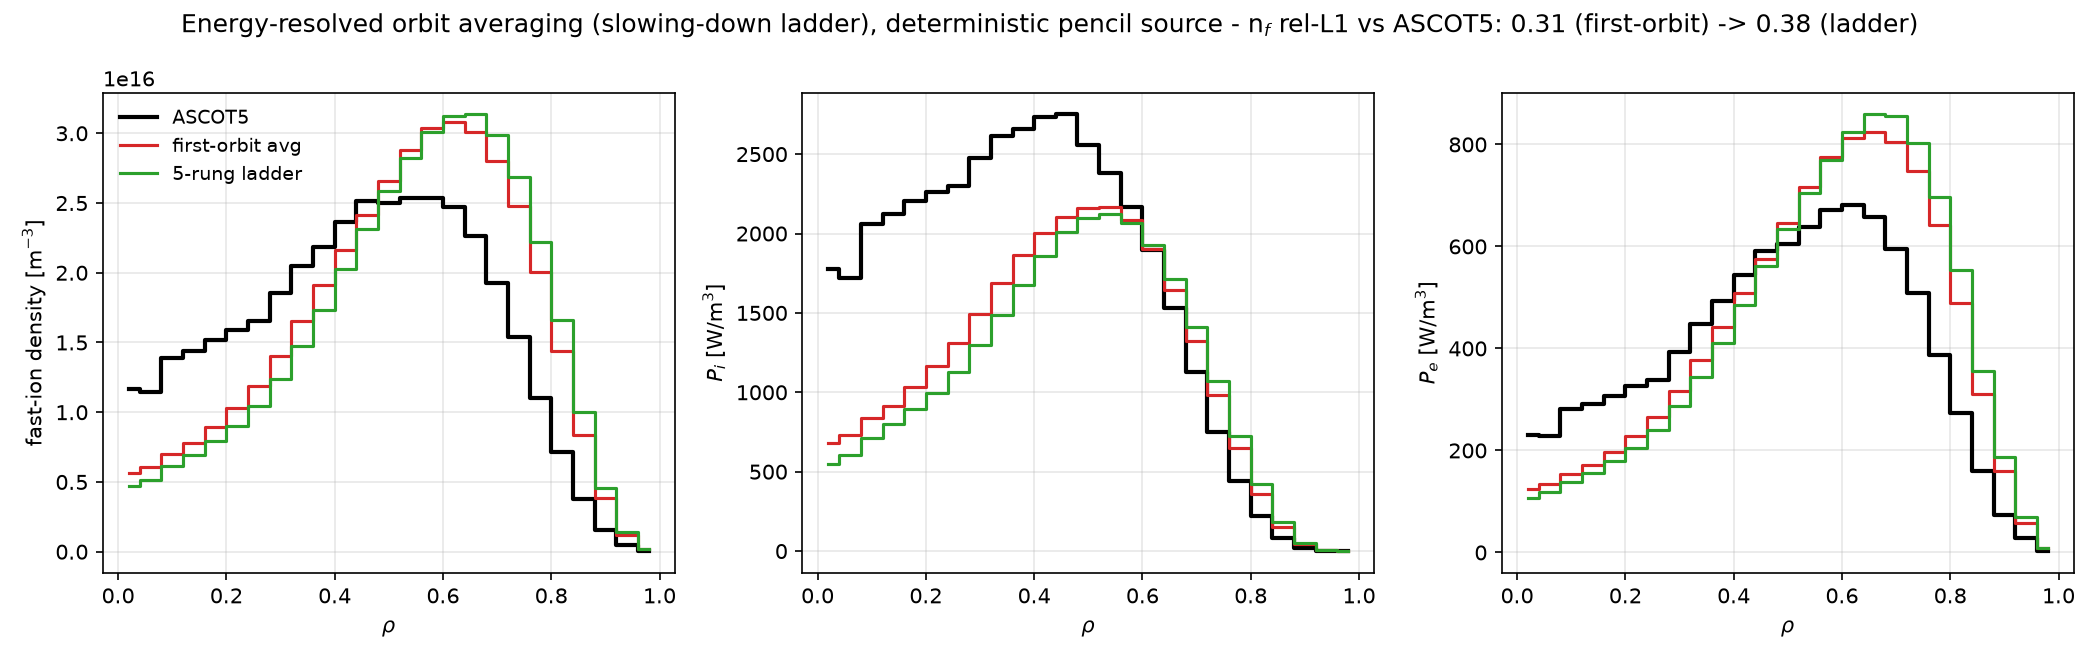
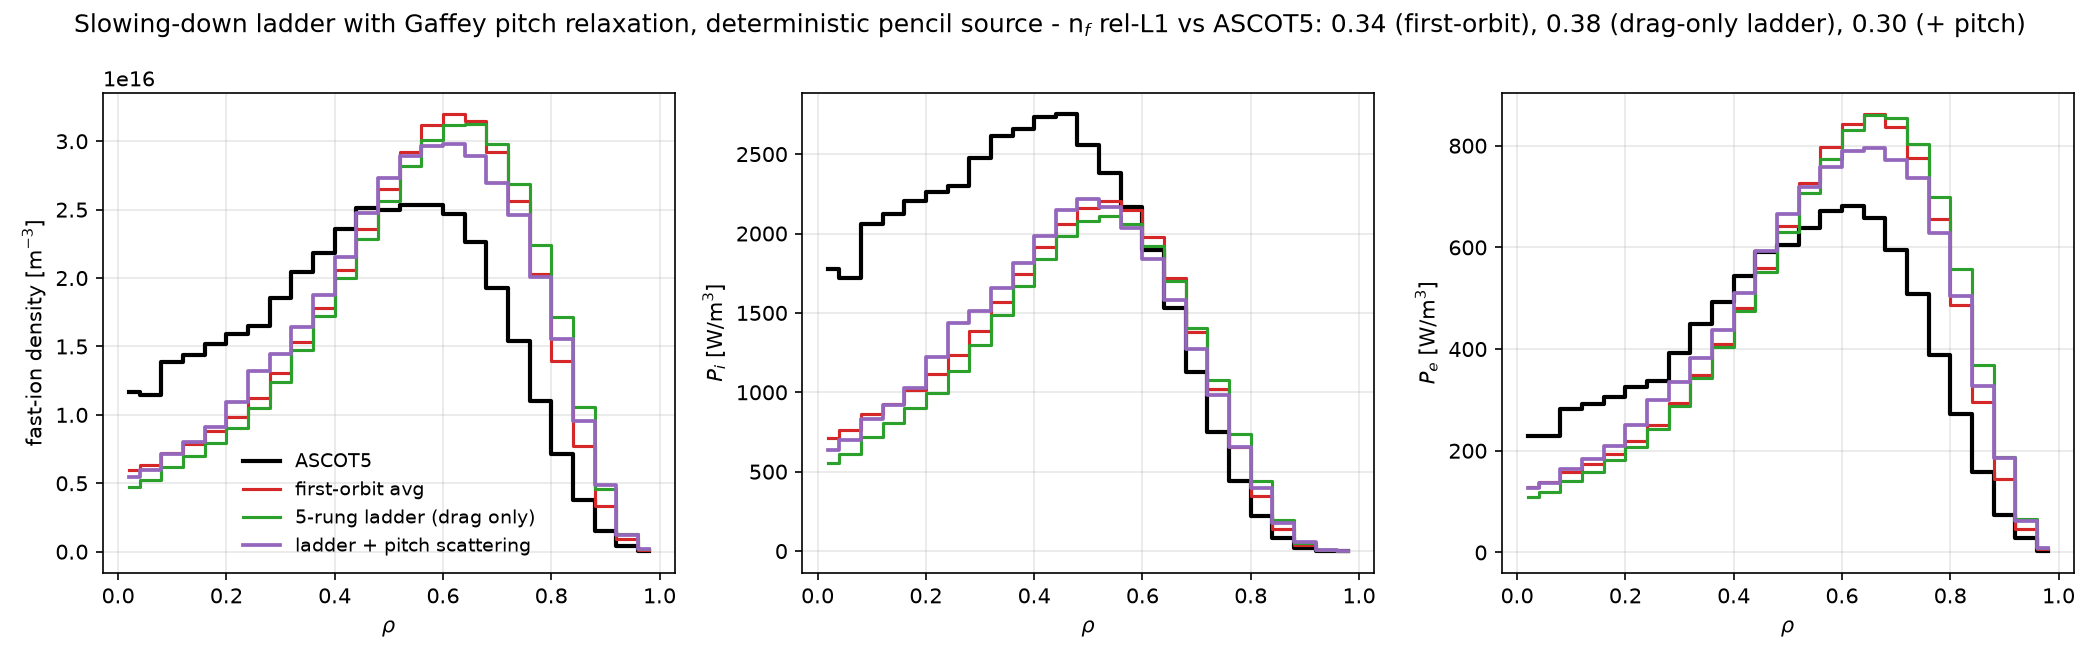
Add Gaffey pitch-angle relaxation to the slowing-down ladder
Legendre-moment decay <P_l>(v) = P_l(xi0) X^(l(l+1)beta/6) with
beta = Zeff/[Z] (Gaffey 1976, Cordey & Core 1974), represented by three
Gauss-Hermite pitch nodes per rung matching the exact mean and variance.
Restores the drag-only ladder's loss and improves on the first-orbit
average (density rel-L1 0.31, P_e 0.26 vs ASCOT5); power balance
unchanged at machine precision.

Claude-Session: https://claude.ai/code/session_01Kv1AQduco2xaPqVER3Quss

diff --git a/deposition_comparison/sd_ladder.py b/deposition_comparison/sd_ladder.py
@@ -41,7 +41,8 @@ from .slowing_down import (SlowingDownResult, _F, _G, _local_sd_quantities)
 
 def ladder_sd(R, z, vpar, mu, e_keV, rate, eq: Equilibrium, plasma,
               rho_edges, e_edges_keV, *, mass_amu, emin_keV=20.0,
-              n_rungs=5, rung_rep="mid", t_int=7.5e-4, n_steps=3000):
+              n_rungs=5, rung_rep="mid", pitch_scattering=False,
+              t_int=7.5e-4, n_steps=3000):
     """Slowing-down profiles with per-rung orbit averaging.
 
     Parameters mirror the deterministic chain's birth cells: guiding-center
@@ -86,17 +87,63 @@ def ladder_sd(R, z, vpar, mu, e_keV, rate, eq: Equilibrium, plasma,
     eE = e_edges_keV * 1e3 * E_CHARGE
     vE = jnp.sqrt(2.0 * eE / m_b)                     # (nE+1,)
 
-    # One orbit per (cell, rung) at the representative band speed.
+    # Representative band speed per rung.
     v_rep = va if rung_rep == "top" else 0.5 * (va + vb)   # (ncell, L)
-    vr = v_rep.reshape(-1)
-    Rf = jnp.repeat(R, L)
-    zf = jnp.repeat(z, L)
-    xif = jnp.repeat(xi, L)
-    Bf = jnp.repeat(B0mag, L)
-    frac, err = orbit_average_matrix(
+
+    # Pitch nodes per (cell, rung). Without pitch scattering: the birth
+    # pitch, weight 1. With it: Gaffey/Cordey collisional pitch relaxation.
+    # Legendre moments of the pitch distribution of ions slowing from v0
+    # decay as  <P_l>(v) = P_l(xi0) X^{l(l+1) beta / 6}  with
+    #   X(v) = (v^3/(v^3+v_c^3)) ((v0^3+v_c^3)/v0^3),
+    #   beta = Z_eff / [Z],  [Z] = sum_i (n_i Z_i^2/n_e)(m_b/m_i)
+    # (Gaffey 1976 J. Plasma Phys. 16 149; Cordey & Core 1974). beta = 1 for
+    # a like-species plasma. From <P_1> and <P_2> the exact mean and
+    # variance follow; three Gauss-Hermite nodes (mu, mu +- sqrt(3) sigma;
+    # weights 1/6, 2/3, 1/6) match both moments and sum to 1, so power
+    # balance is untouched. beta and v_c are evaluated at the birth-surface
+    # bin (the pitch history integrates over the ion's own trajectory; the
+    # birth surface is the consistent one-point choice).
+    if pitch_scattering:
+        from .physics import profiles as _profiles
+        idx_b = jnp.clip(jnp.searchsorted(rho_edges, jnp.sqrt(
+            (R - eq.R0) ** 2 + z**2) / eq.a, "right") - 1, 0, nbin - 1)
+        ne_b, _, ni_b = _profiles(plasma, centers[idx_b])
+        zi = jnp.asarray(plasma.znum, dtype=jnp.float64)
+        mi = jnp.asarray(plasma.anum, dtype=jnp.float64) * AMU_KG
+        zeff = jnp.sum(ni_b * zi**2, axis=-1) / jnp.sum(ni_b * zi, axis=-1)
+        zbar = jnp.sum(ni_b * zi**2 * (m_b / mi), axis=-1) / ne_b
+        beta = zeff / zbar                                  # (ncell,)
+
+        vc_b = _local_sd_quantities(plasma, centers, m_b, 1.0)[1][idx_b]
+        X = ((v_rep**3 / (v_rep**3 + vc_b[:, None] ** 3))
+             * ((v0**3 + vc_b**3) / v0**3)[:, None])        # (ncell, L)
+        mean = xi[:, None] * X ** (beta[:, None] / 3.0)
+        p2_0 = 0.5 * (3.0 * xi**2 - 1.0)
+        p2 = p2_0[:, None] * X ** beta[:, None]
+        xi2 = (1.0 + 2.0 * p2) / 3.0
+        sig = jnp.sqrt(jnp.clip(xi2 - mean**2, 0.0))
+        nodes = jnp.stack([mean - jnp.sqrt(3.0) * sig, mean,
+                           mean + jnp.sqrt(3.0) * sig], axis=-1)
+        nodes = jnp.clip(nodes, -0.999, 0.999)              # (ncell, L, 3)
+        node_w = jnp.array([1.0 / 6.0, 2.0 / 3.0, 1.0 / 6.0])
+    else:
+        nodes = xi[:, None, None] * jnp.ones((1, L, 1))     # (ncell, L, 1)
+        node_w = jnp.array([1.0])
+    nnode = nodes.shape[-1]
+
+    # One orbit per (cell, rung, pitch node); kernels averaged over nodes.
+    vr = jnp.broadcast_to(v_rep[:, :, None],
+                          (R.shape[0], L, nnode)).reshape(-1)
+    xif = nodes.reshape(-1)
+    Rf = jnp.repeat(R, L * nnode)
+    zf = jnp.repeat(z, L * nnode)
+    Bf = jnp.repeat(B0mag, L * nnode)
+    frac_n, err = orbit_average_matrix(
         eq, rho_edges, Rf, zf, xif * vr,
         m_b * vr**2 * (1.0 - xif**2) / (2.0 * Bf),
-        mass_amu=mass_amu, t_int=t_int, n_steps=n_steps)   # (ncell*L, nbin)
+        mass_amu=mass_amu, t_int=t_int, n_steps=n_steps)
+    frac = jnp.einsum("n,clnb->clb", node_w,
+                      frac_n.reshape(-1, L, nnode, nbin)).reshape(-1, nbin)
 
     # Per destination bin b: evaluate the exact band contents with that
     # bin's (tau_se, v_c, E_c), weight by the orbit-kernel column frac[:, b],
@@ -166,10 +213,10 @@ if __name__ == "__main__":
     # --- validation 1: n_rungs=1 with rep="top" == plain first-orbit avg
     lad1, _ = ladder_sd(R, z, vpar, mu, e_keV, rate, eq, plasma, rho_edges,
                         e_edges, mass_amu=mamu, n_rungs=1, rung_rep="top",
-                        t_int=5.0e-4, n_steps=2000)
+                        t_int=2.5e-4, n_steps=1000)
     frac0, _ = orbit_average_matrix(eq, rho_edges, R, z, vpar, mu,
-                                    mass_amu=mamu, t_int=5.0e-4,
-                                    n_steps=2000)
+                                    mass_amu=mamu, t_int=2.5e-4,
+                                    n_steps=1000)
     oa0 = orbit_averaged_sd(frac0, e_keV, rate, eq, plasma, rho_edges,
                             e_edges, mass_amu=mamu)
     d1 = rel_l1(np.asarray(lad1.density), np.asarray(oa0.density))
@@ -178,24 +225,40 @@ if __name__ == "__main__":
     assert d1 < 1e-10
 
     # --- validation 2: exact power balance, any rung count
-    for L in (1, 3, 5):
+    for L in (1, 5):
         lad, _ = ladder_sd(R, z, vpar, mu, e_keV, rate, eq, plasma,
                            rho_edges, e_edges, mass_amu=mamu, n_rungs=L,
-                           t_int=2.0e-4, n_steps=500)
+                           t_int=1.0e-4, n_steps=200)
         dep = float(jnp.sum((lad.pe + lad.pi_) * vols))
         exp = float(jnp.sum(rate * jnp.clip(e_keV - 20.0, 0.0) * 1e3
                             * E_CHARGE))
         print(f"power balance, {L} rungs: rel {abs(dep/exp-1):.2e}")
         assert abs(dep / exp - 1.0) < 1e-10
 
-    # --- the ladder run
+    # --- the ladder runs (drag-only, and with Gaffey pitch scattering)
     t0 = time.perf_counter()
     lad, err = ladder_sd(R, z, vpar, mu, e_keV, rate, eq, plasma, rho_edges,
-                         e_edges, mass_amu=mamu, n_rungs=5)
+                         e_edges, mass_amu=mamu, n_rungs=5,
+                         t_int=5.0e-4, n_steps=2000)
     jax.block_until_ready(lad.density)
     t_lad = time.perf_counter() - t0
     print(f"\n5-rung ladder: {t_lad:.1f} s, orbit energy cons. max "
           f"{float(err.max()):.1e}")
+
+    t0 = time.perf_counter()
+    ladp, errp = ladder_sd(R, z, vpar, mu, e_keV, rate, eq, plasma,
+                           rho_edges, e_edges, mass_amu=mamu, n_rungs=5,
+                           pitch_scattering=True, t_int=5.0e-4,
+                           n_steps=2000)
+    jax.block_until_ready(ladp.density)
+    t_ladp = time.perf_counter() - t0
+    dep = float(jnp.sum((ladp.pe + ladp.pi_) * vols))
+    exp = float(jnp.sum(rate * jnp.clip(e_keV - 20.0, 0.0) * 1e3
+                        * E_CHARGE))
+    print(f"5-rung ladder + pitch scattering (3 nodes/rung): {t_ladp:.1f} s,"
+          f" orbit energy cons. max {float(errp.max()):.1e}, "
+          f"power balance rel {abs(dep/exp-1):.1e}")
+    assert abs(dep / exp - 1.0) < 1e-10
 
     dens_ref = np.asarray(ref["density"])
     pe_ref, pi_ref = np.asarray(ref["pe"]), np.asarray(ref["pi"])
@@ -203,7 +266,8 @@ if __name__ == "__main__":
                          * np.asarray(vols))) / 1e3
     print(f"\n{'model':<26}{'L1 n_fast':>11}{'L1 P_i':>9}{'L1 P_e':>9}"
           f"{'W_fast [kJ]':>13}")
-    for nm, sd in [("first-orbit avg", oa0), ("5-rung ladder", lad)]:
+    for nm, sd in [("first-orbit avg", oa0), ("5-rung ladder", lad),
+                   ("ladder + pitch scatter", ladp)]:
         print(f"{nm:<26}"
               f"{rel_l1(np.asarray(sd.density), dens_ref):>11.3f}"
               f"{rel_l1(np.asarray(sd.pi_), pi_ref):>9.3f}"
@@ -225,16 +289,20 @@ if __name__ == "__main__":
         a.step(centers, np.asarray(getattr(oa0, attr)), where="mid",
                color="C3", label="first-orbit avg")
         a.step(centers, np.asarray(getattr(lad, attr)), where="mid",
-               color="C2", label="5-rung ladder")
+               color="C2", label="5-rung ladder (drag only)")
+        a.step(centers, np.asarray(getattr(ladp, attr)), where="mid",
+               color="C4", lw=1.8, label="ladder + pitch scattering")
         a.set_xlabel(r"$\rho$")
         a.set_ylabel(lab)
         a.grid(alpha=0.3)
     ax[0].legend(frameon=False, fontsize=9)
     fig.suptitle(
-        "Energy-resolved orbit averaging (slowing-down ladder), "
-        "deterministic pencil source - n$_f$ rel-L1 vs ASCOT5: "
-        f"{rel_l1(np.asarray(oa0.density), dens_ref):.2f} (first-orbit) -> "
-        f"{rel_l1(np.asarray(lad.density), dens_ref):.2f} (ladder)")
+        "Slowing-down ladder with Gaffey pitch relaxation, deterministic "
+        "pencil source - n$_f$ rel-L1 vs ASCOT5: "
+        f"{rel_l1(np.asarray(oa0.density), dens_ref):.2f} (first-orbit), "
+        f"{rel_l1(np.asarray(lad.density), dens_ref):.2f} (drag-only "
+        "ladder), "
+        f"{rel_l1(np.asarray(ladp.density), dens_ref):.2f} (+ pitch)")
     fig.tight_layout()
     out = os.path.join(HERE, "comparison_ladder.png")
     fig.savefig(out, dpi=150)
